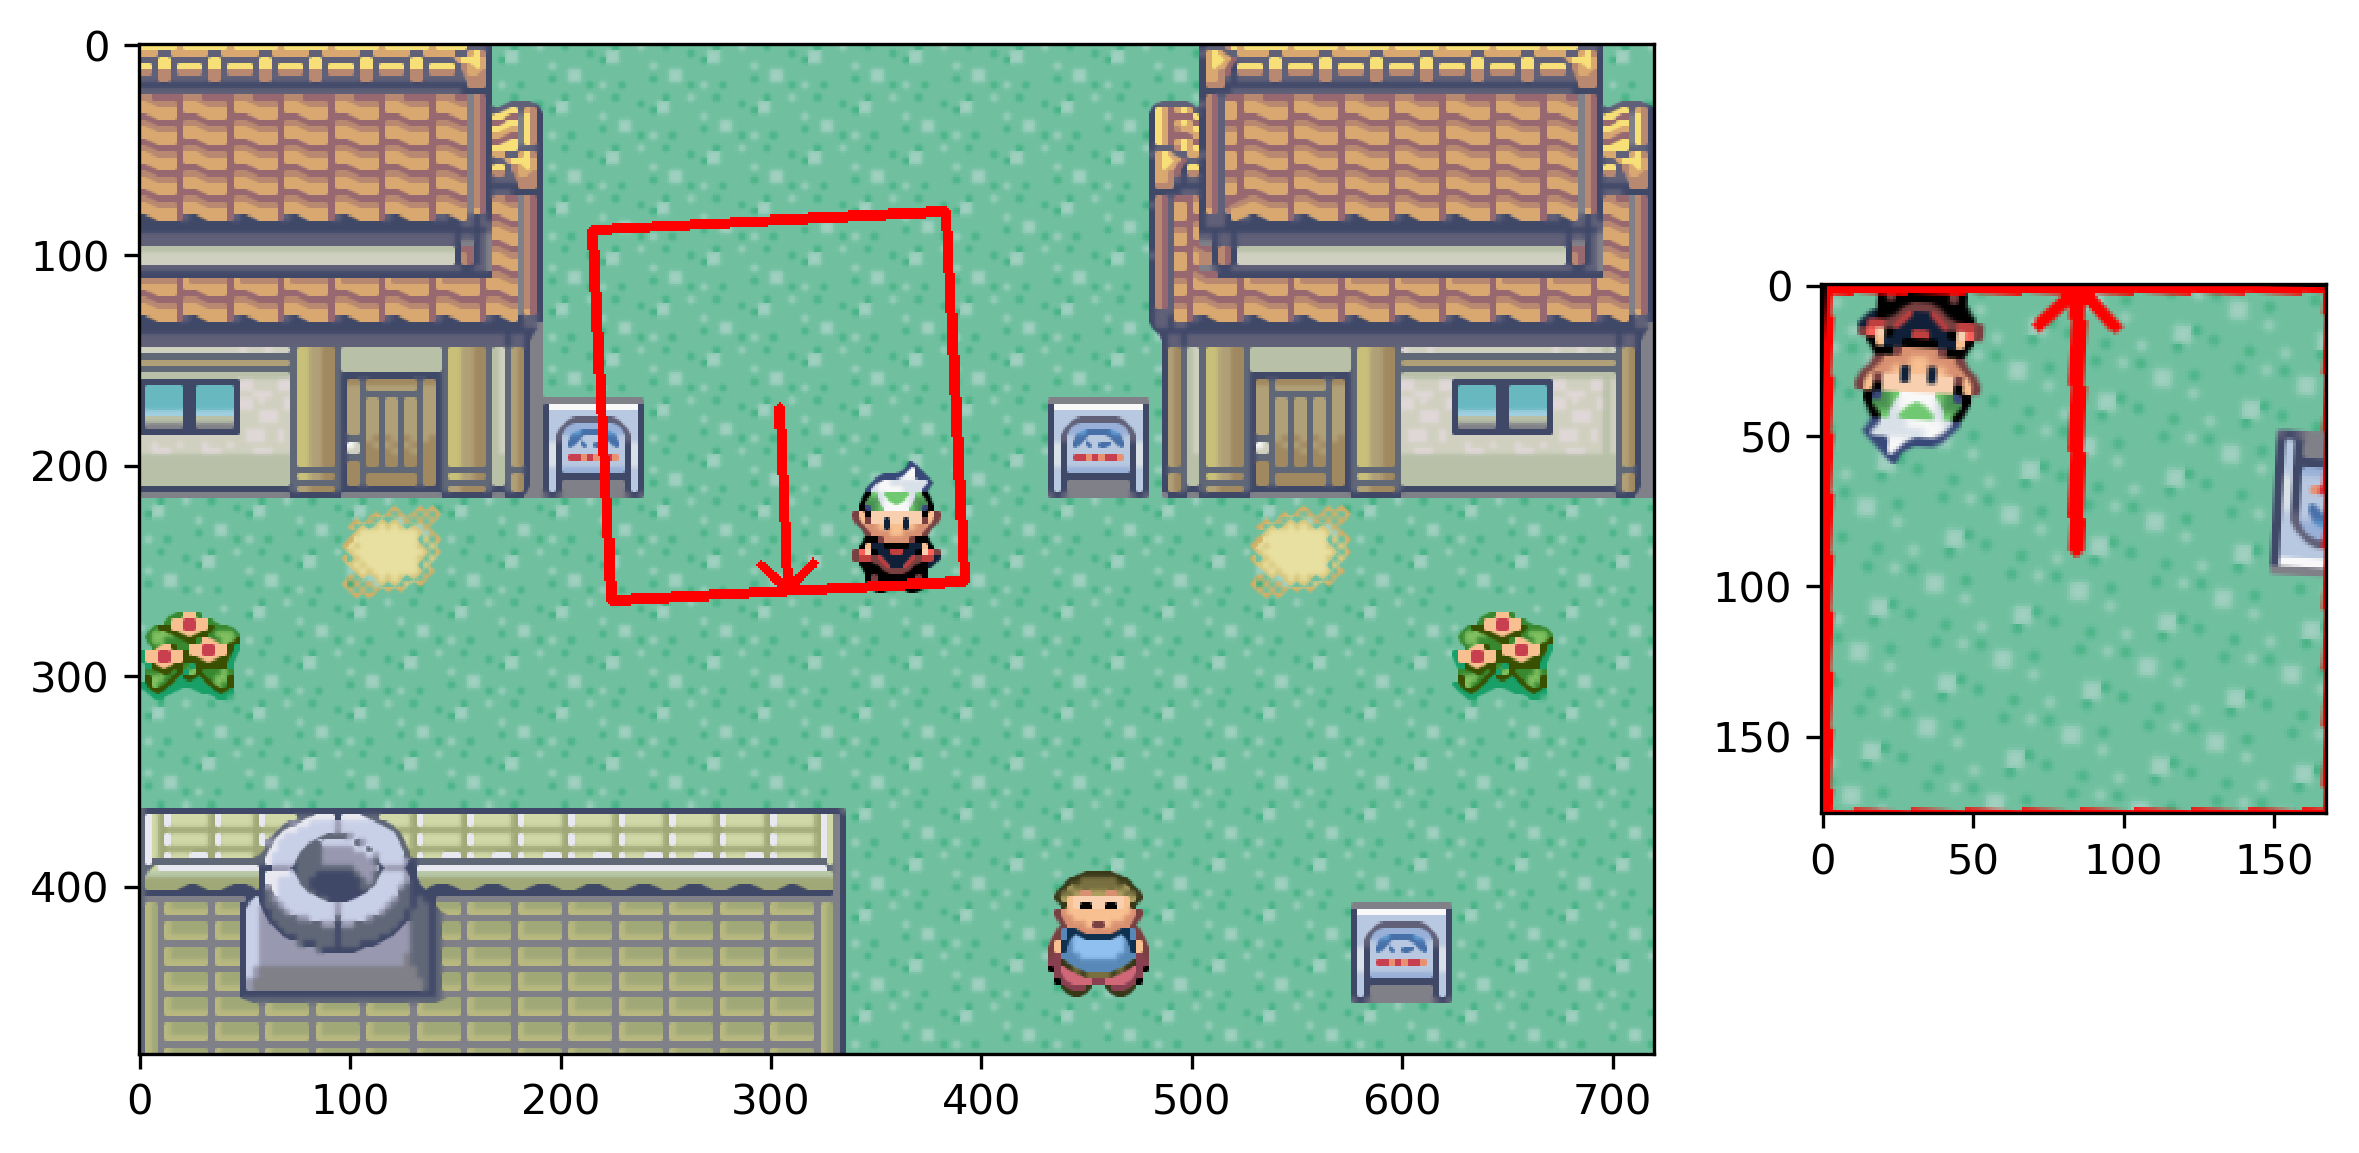
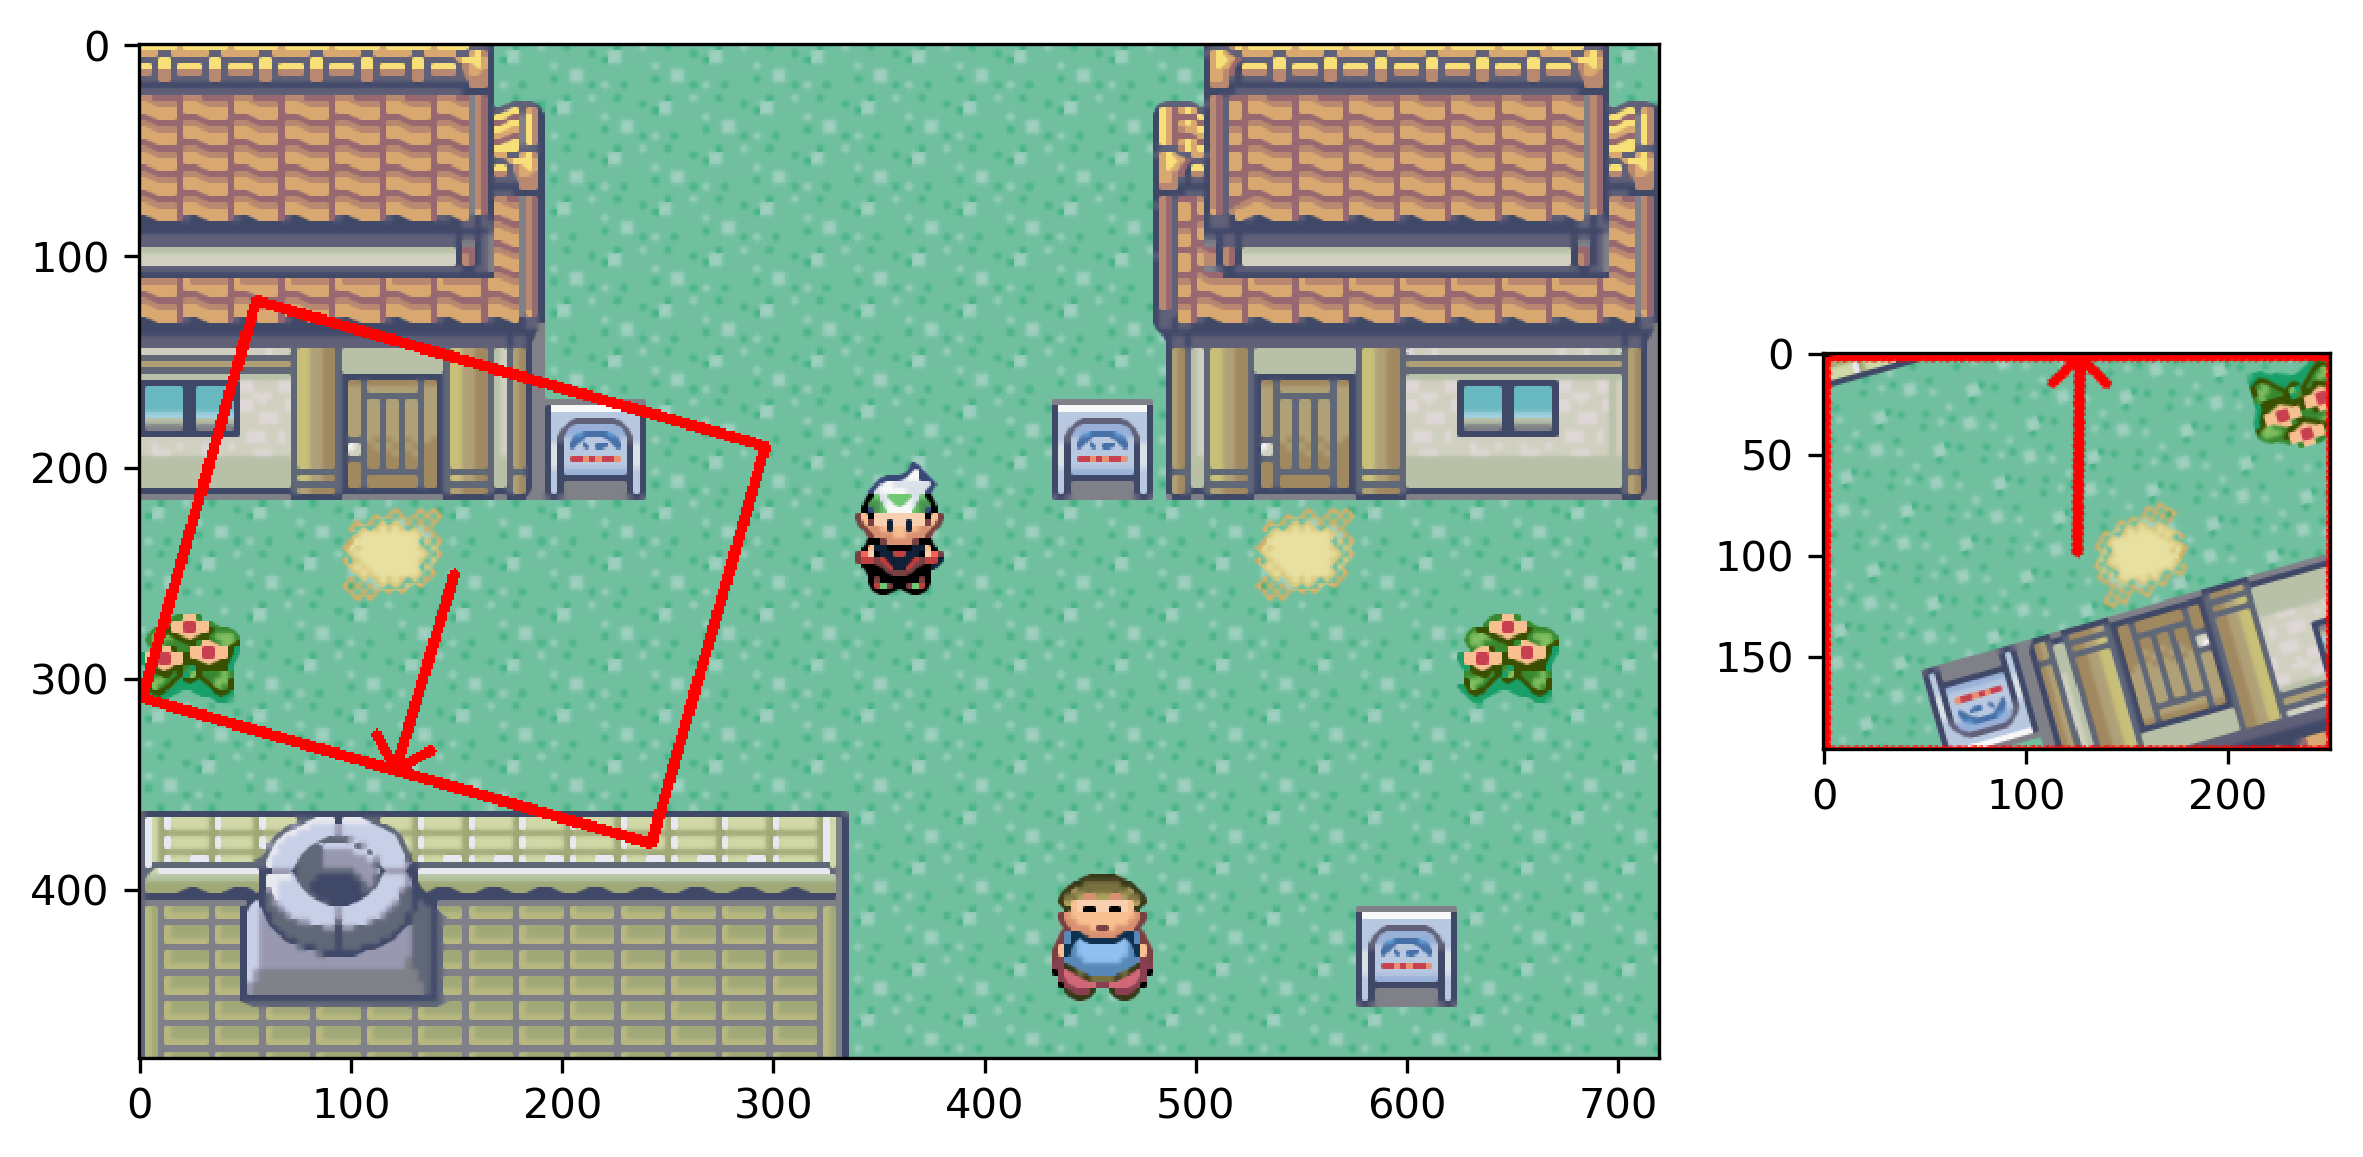
fix odd x odd rectangle size problem

diff --git a/rotated_rect_crop.py b/rotated_rect_crop.py
@@ -149,7 +149,7 @@ def crop_rotated_rectangle(image, rect):
 
     crop_center = (rotated_rect_bbx_upright_image.shape[1]//2, rotated_rect_bbx_upright_image.shape[0]//2)
 
-    return rotated_rect_bbx_upright_image[crop_center[1]-rect_height//2 : crop_center[1]+rect_height//2, crop_center[0]-rect_width//2 : crop_center[0]+rect_width//2]
+    return rotated_rect_bbx_upright_image[crop_center[1]-rect_height//2 : crop_center[1]+(rect_height-rect_height//2), crop_center[0]-rect_width//2 : crop_center[0]+(rect_width-rect_width//2)]
 
 
 
@@ -168,15 +168,16 @@ def crop_rotated_rectangle_test():
     #img = np.ones((1000, 1000), dtype=np.uint8)
     #img = cv2.line(img,(400,400),(511,511),2,120)
     #img = cv2.line(img,(300,300),(700,500),2,120)
-    
-    img_rows, img_cols, _ = img.shape
+
+    img_rows = img.shape[0]
+    img_cols = img.shape[1]
     
     # Generate random rect
     
     while True:
-        center = (np.random.randint(low = 0, high = img_cols), np.random.randint(low = 0, high = img_rows))
-        width = np.random.randint(low = 0, high = img_cols)
-        height = np.random.randint(low = 0, high = img_rows)
+        center = (np.random.randint(low = 1, high = img_cols), np.random.randint(low = 0, high = img_rows))
+        width = np.random.randint(low = 1, high = img_cols)
+        height = np.random.randint(low = 1, high = img_rows)
         angle = height = np.random.randint(low = 0, high = 360)
         rect = (center, (width, height), angle)
         if inside_rect(rect = rect, num_cols = img_cols, num_rows = img_rows):
@@ -186,9 +187,6 @@ def crop_rotated_rectangle_test():
 
     box = cv2.boxPoints(rect).astype(np.int0)
     cv2.drawContours(img,[box],0,(255,0,0),3)
-    
-    
-    
     cv2.arrowedLine(img, center, ((box[1][0]+box[2][0])//2,(box[1][1]+box[2][1])//2), (255,0,0), 3, tipLength = 0.2)
 
     image_cropped = crop_rotated_rectangle(image = img, rect = rect)
@@ -217,7 +215,8 @@ def crop_rotated_rectangle_test():
     return
 
 
+if __name__ == '__main__':
 
-
+    crop_rotated_rectangle_test()
 
 

diff --git a/README.md b/README.md
@@ -21,6 +21,8 @@ Python 3.5
 
 ## Usage
 
+In Python or Jupyter Notebook:
+
 ```Python
 from rotated_rect_crop import crop_rotated_rectangle
 # image is the image matrix
@@ -29,5 +31,11 @@ image_cropped = crop_rotated_rectangle(image, rect)
 ```
 
 ## Demo
+
+Generate a random rotated rectangle and crop:
+
+```Shell
+python rotated_rect_crop.py
+```
 
 ![](demo_good.png)
